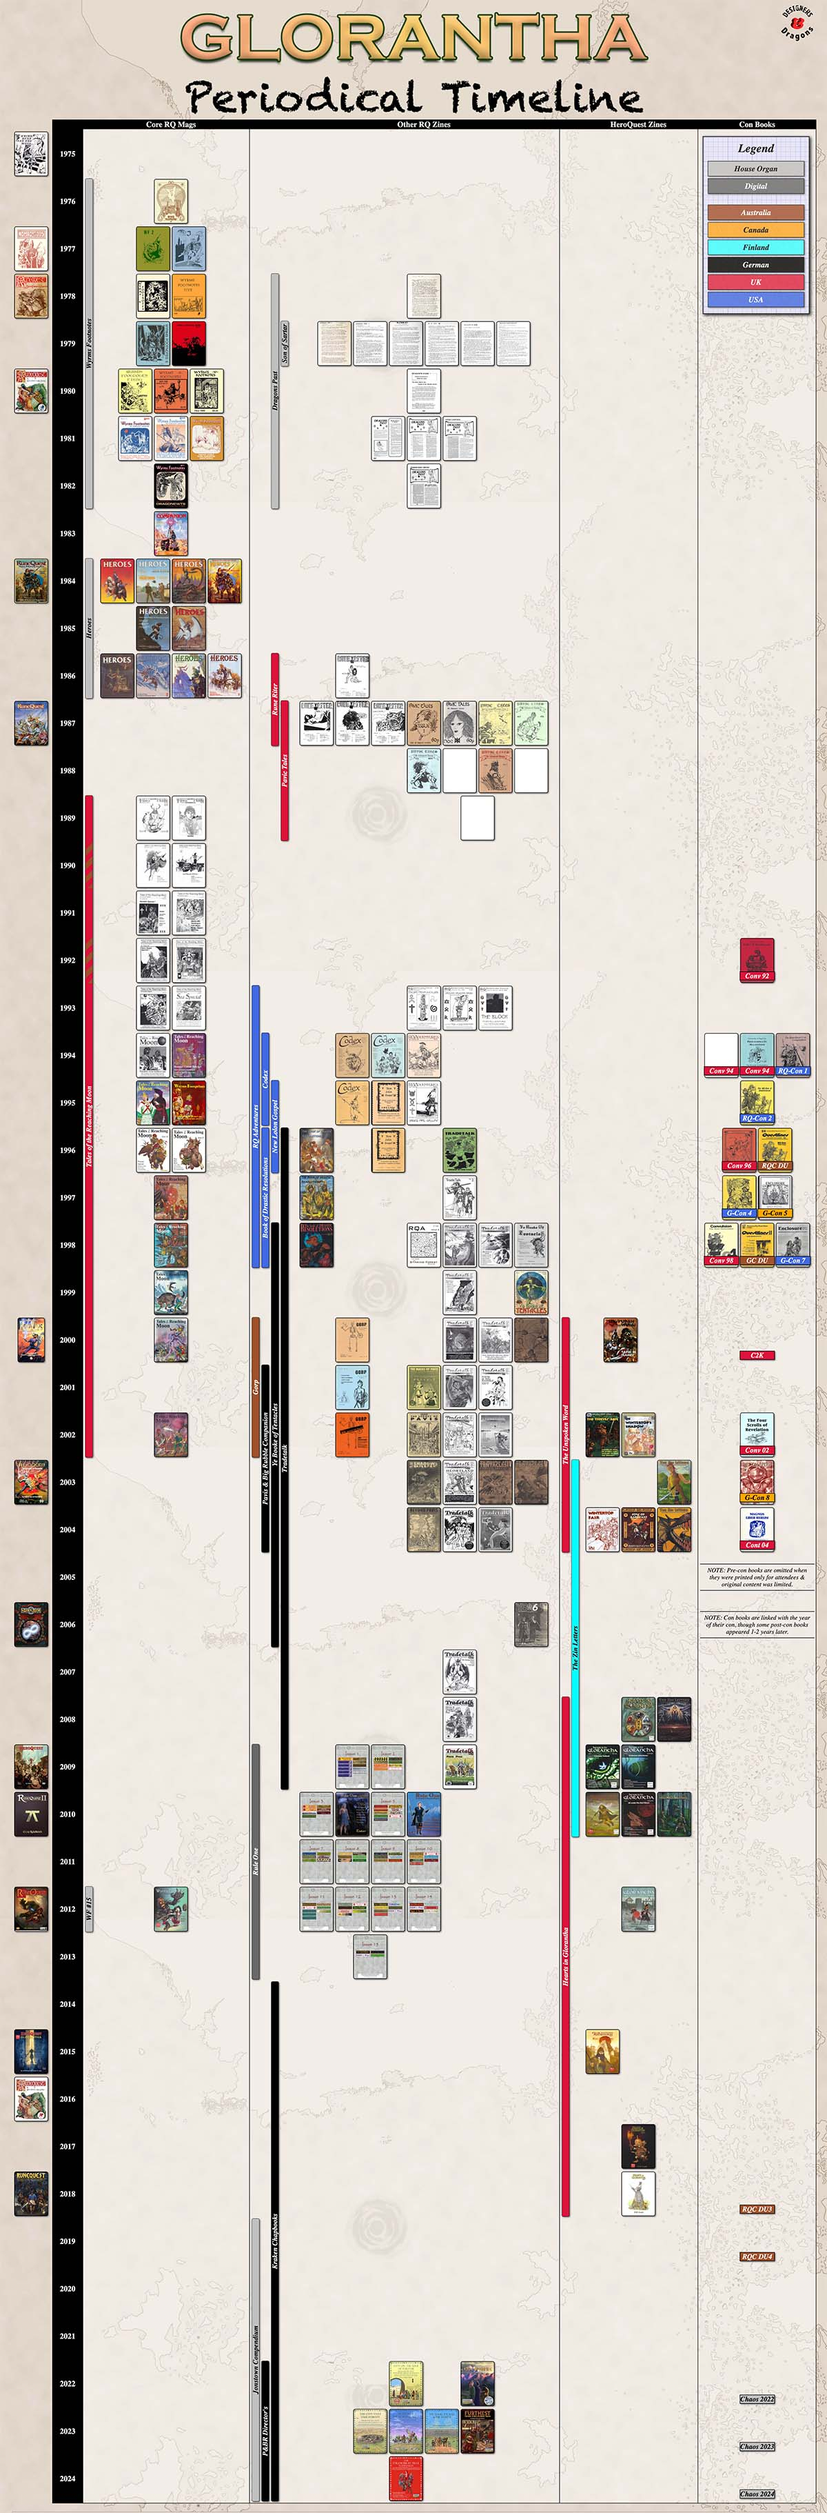
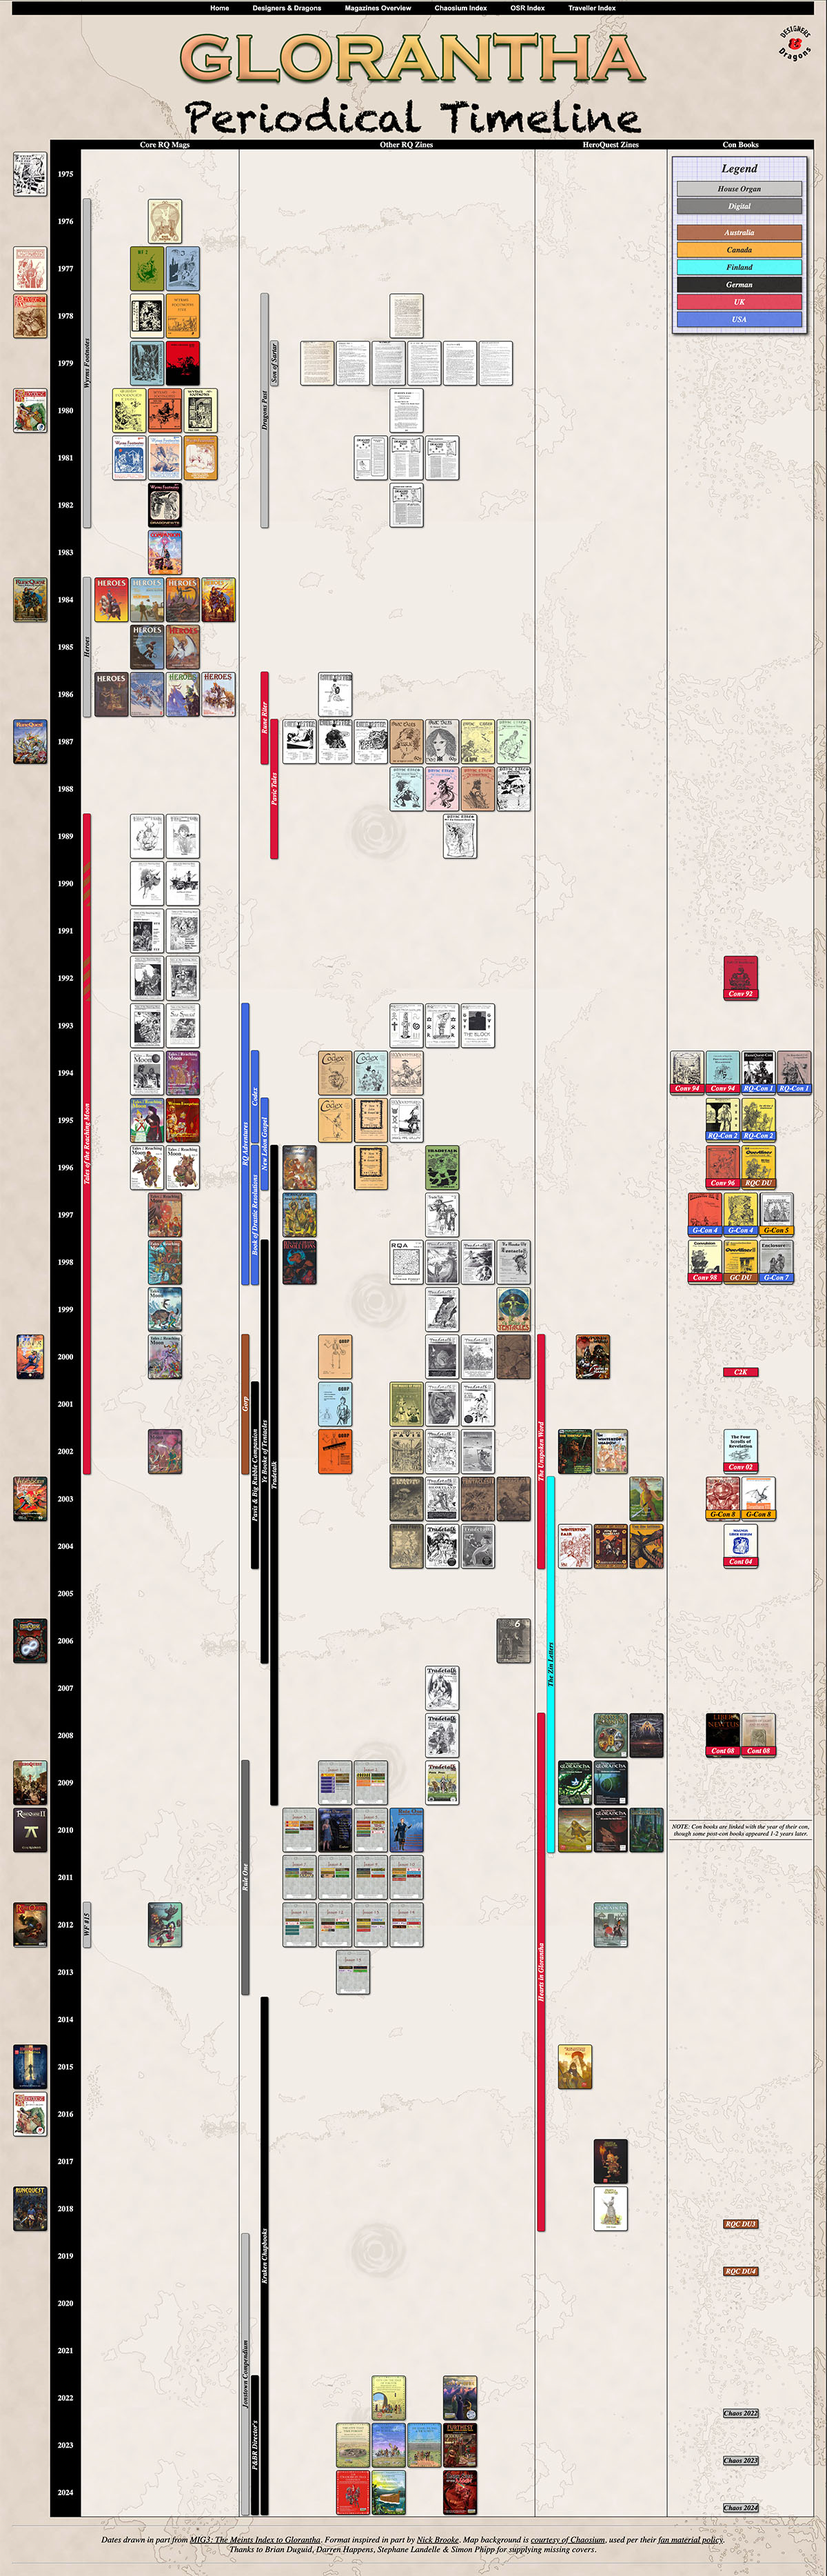
timeline updates

Changed region(s): [[0.0, 0.0, 1.0, 1.0], [0.185, 0.7132, 0.2467, 0.7752], [0.8325, 0.3101, 0.8633, 0.3721]]

diff --git a/chaosium/glorantha-zine-timeline.html b/chaosium/glorantha-zine-timeline.html
@@ -960,7 +960,7 @@
     </div>
   </div>
   
-  <div class="y2010 con">
+  <div class="y2011 con">
     <p style="border-top: 1px solid black; border-bottom: 1px solid black; padding: 5px; outline-width: 3px; font-size: 80%"><i>NOTE: Con books are linked with the year of their con, though some post-con books appeared 1-2 years later.</I>
   </div>
 
